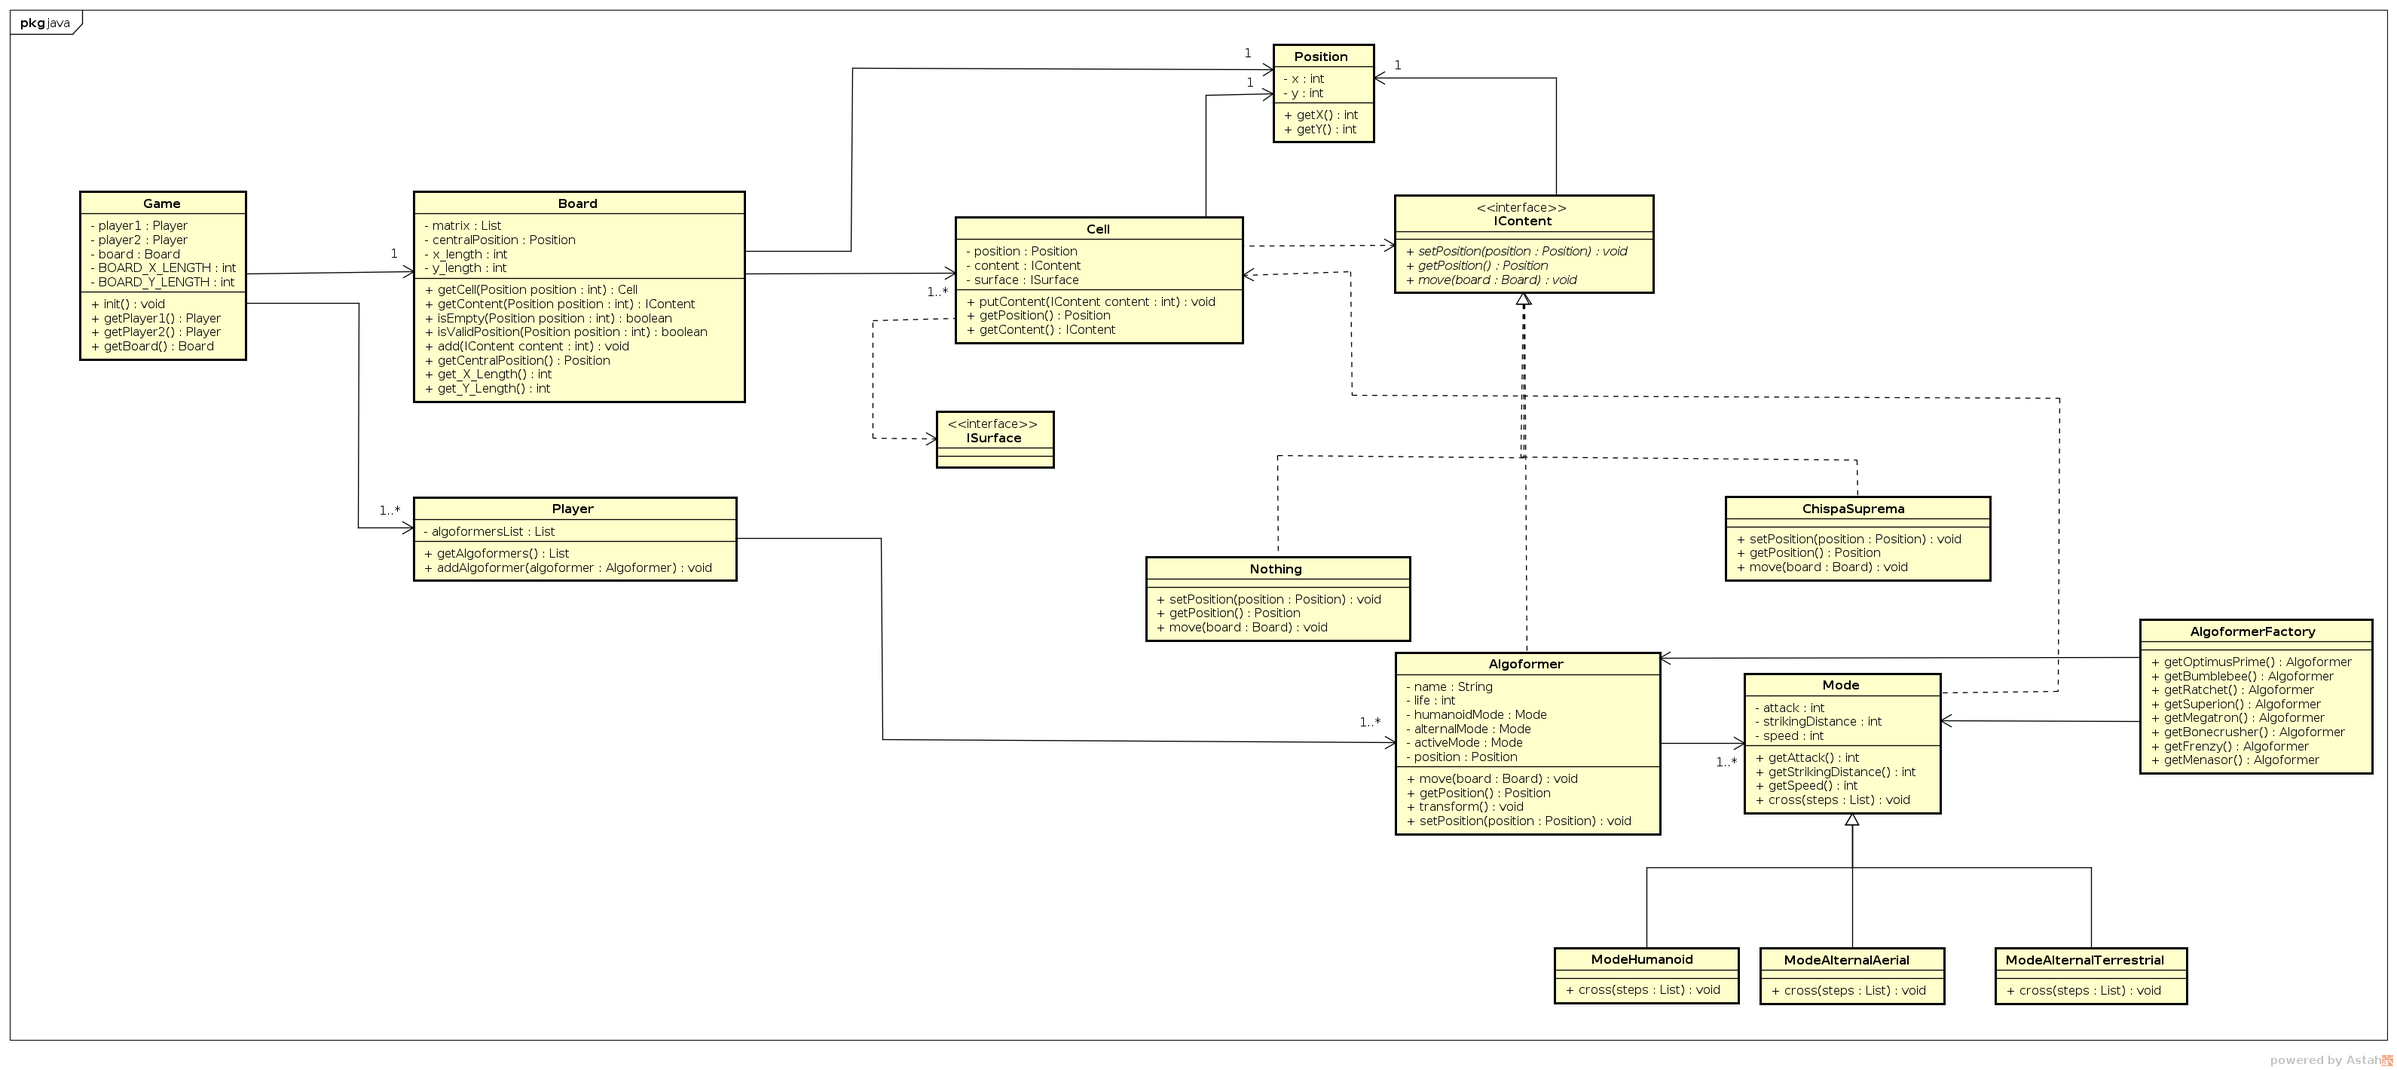
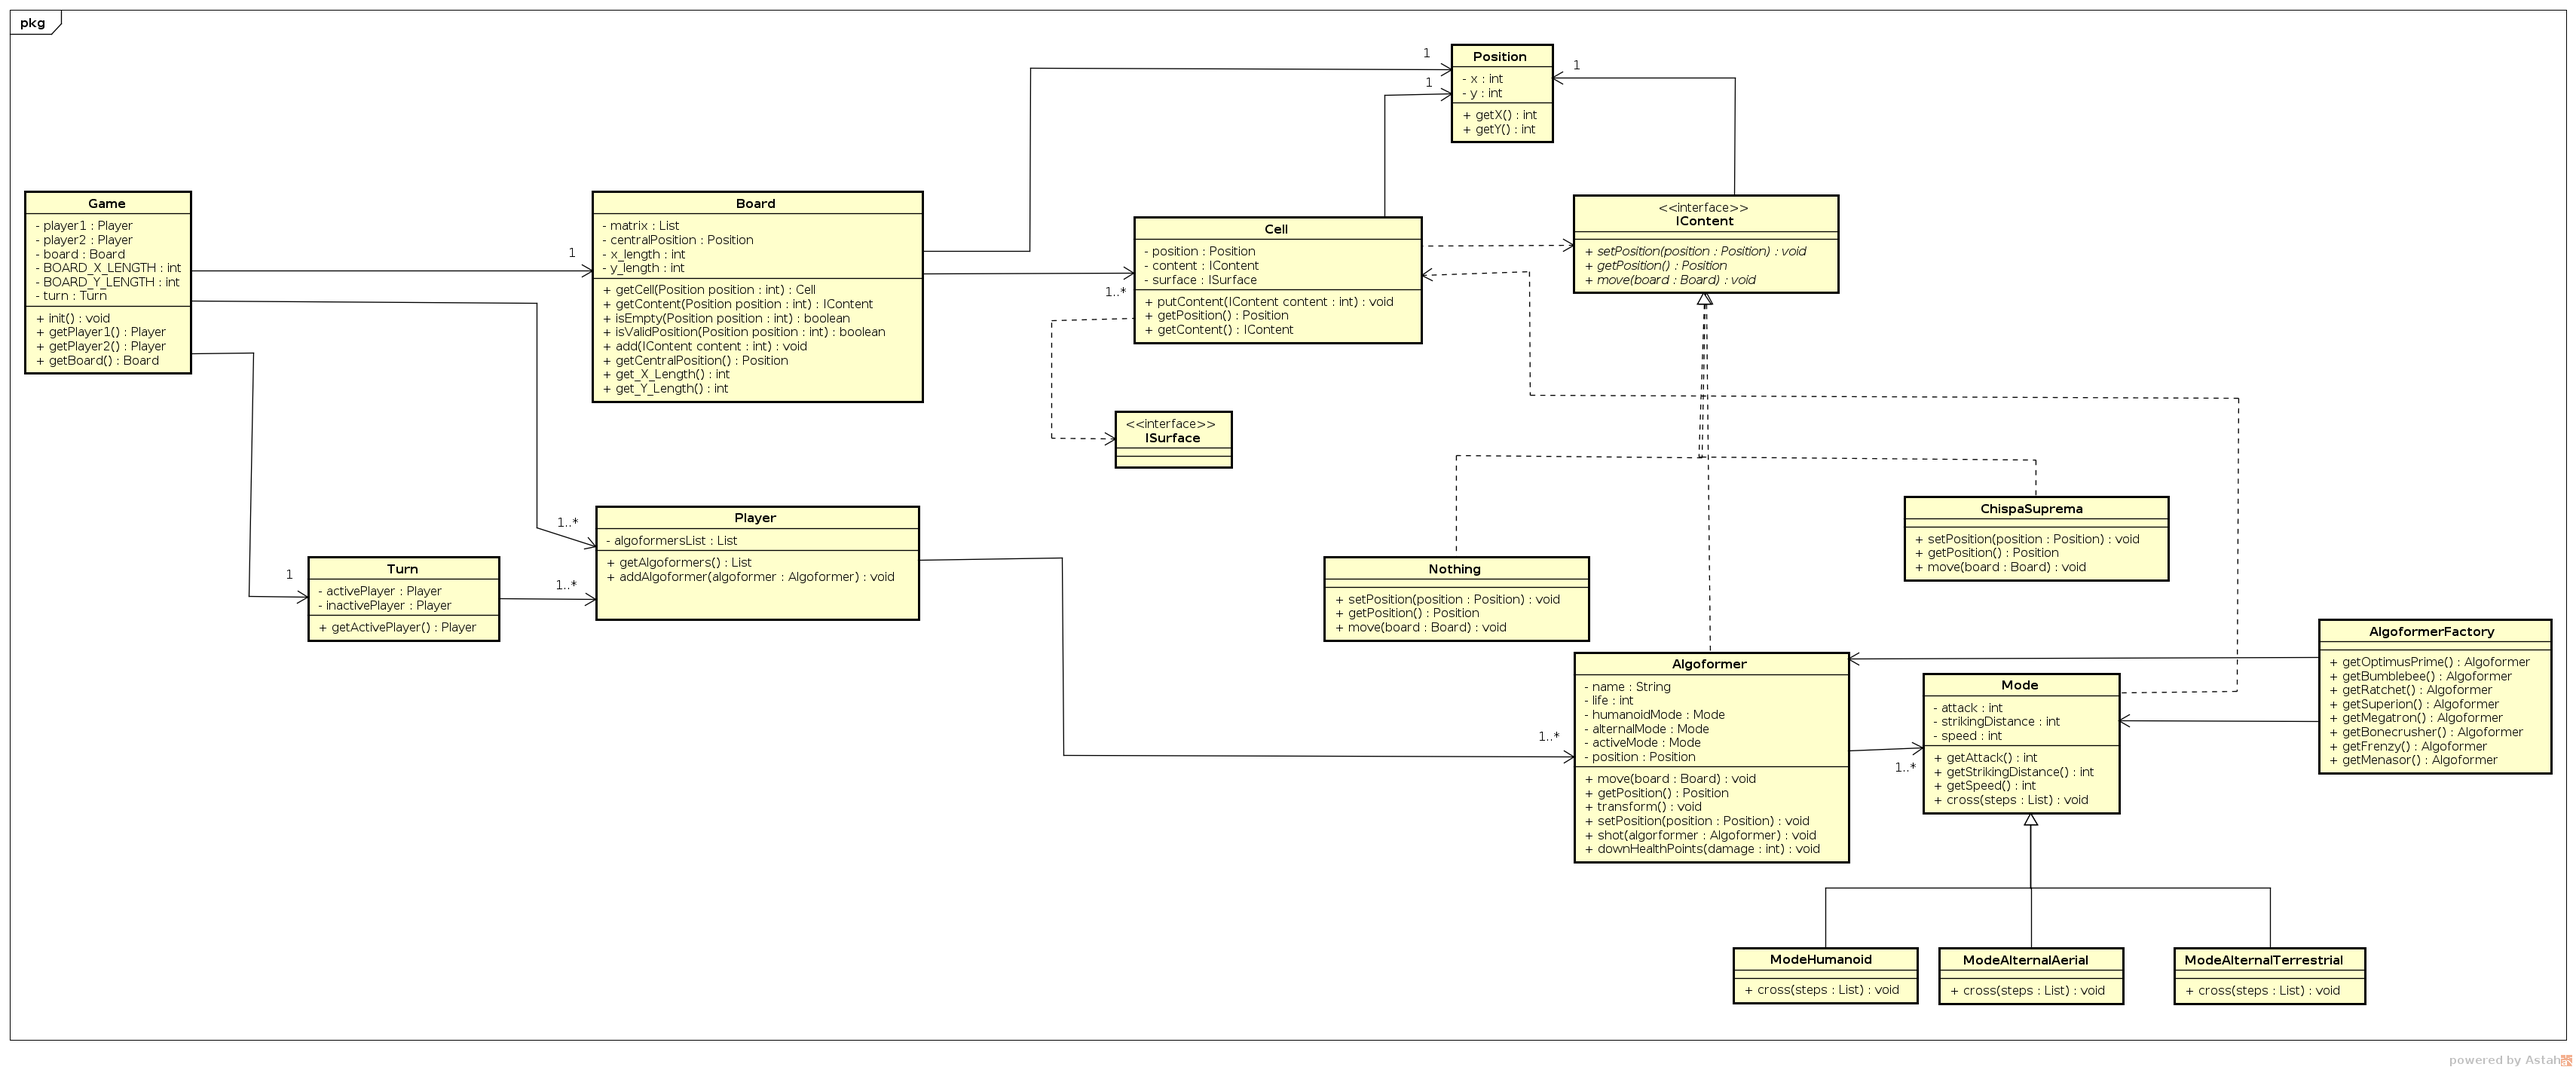
Se agrega atributo Turno  dentro de Game. Se actualiza el diagrama de clases

diff --git a/src/fiuba/algo3/algoformers/game/Game.java b/src/fiuba/algo3/algoformers/game/Game.java
@@ -11,6 +11,7 @@ public class Game {
 	Player player1;
 	Player player2;
 	Board board;
+	Turn turn;
 	
 	int BOARD_X_LENGTH = 20;
 	int BOARD_Y_LENGTH = 20;
@@ -20,6 +21,7 @@ public class Game {
 		this.player1 = new Player();
 		this.player2 = new Player();
 		this.board = new Board(BOARD_X_LENGTH,BOARD_Y_LENGTH);
+		this.turn = new Turn(this.player1, this.player2);
 		
 		//Autobots:
 		Algoformer optimusPrime = AlgoFormerFactory.getOptimusPrime();
